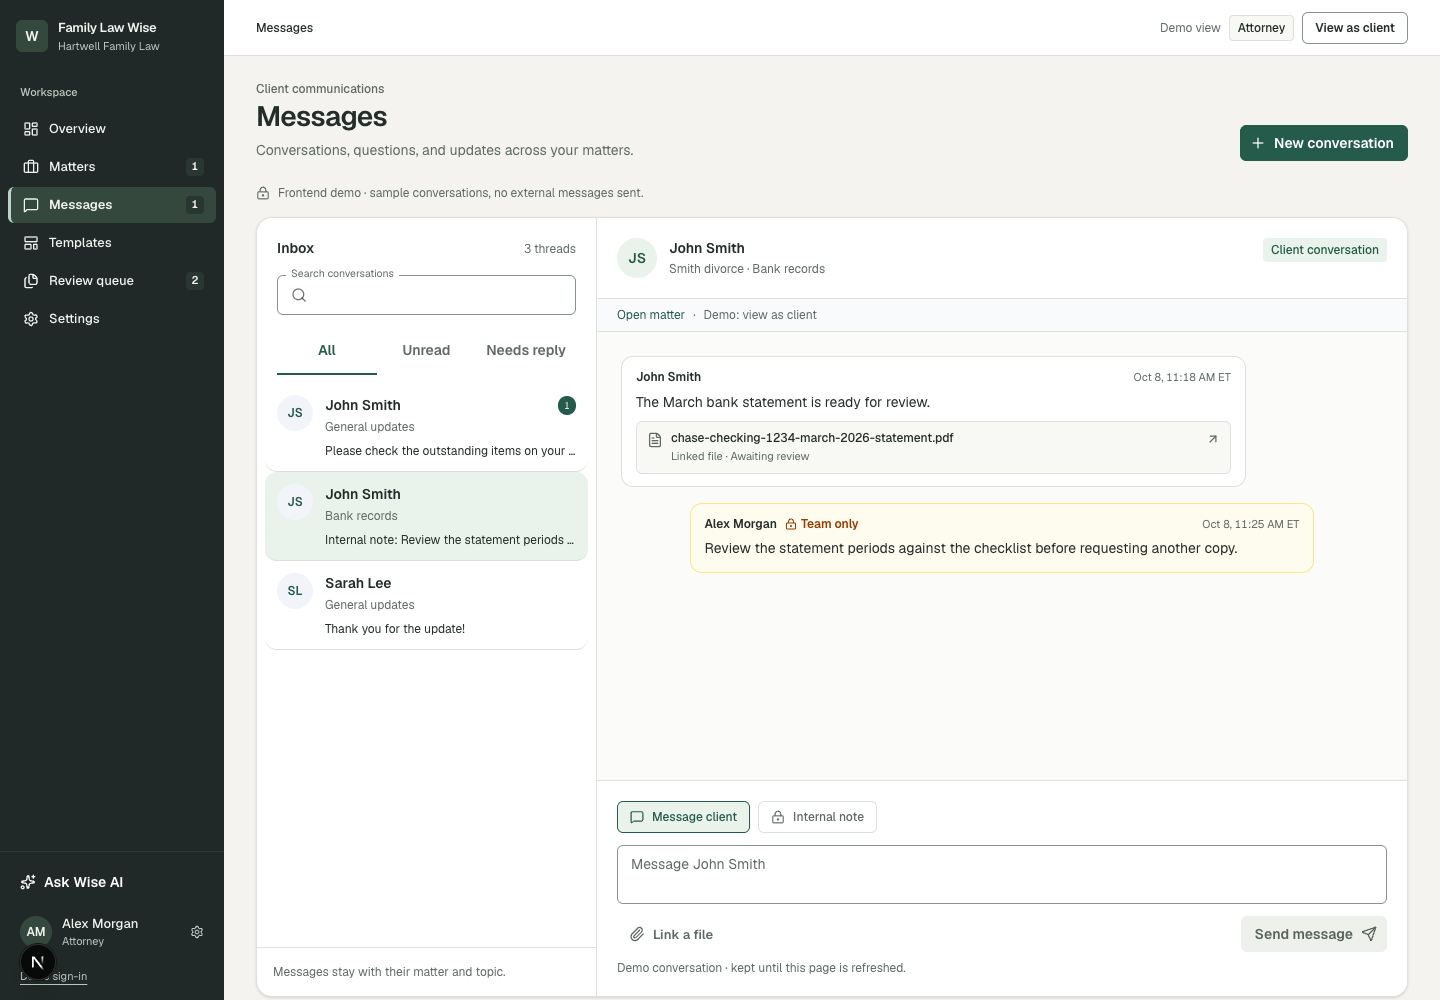
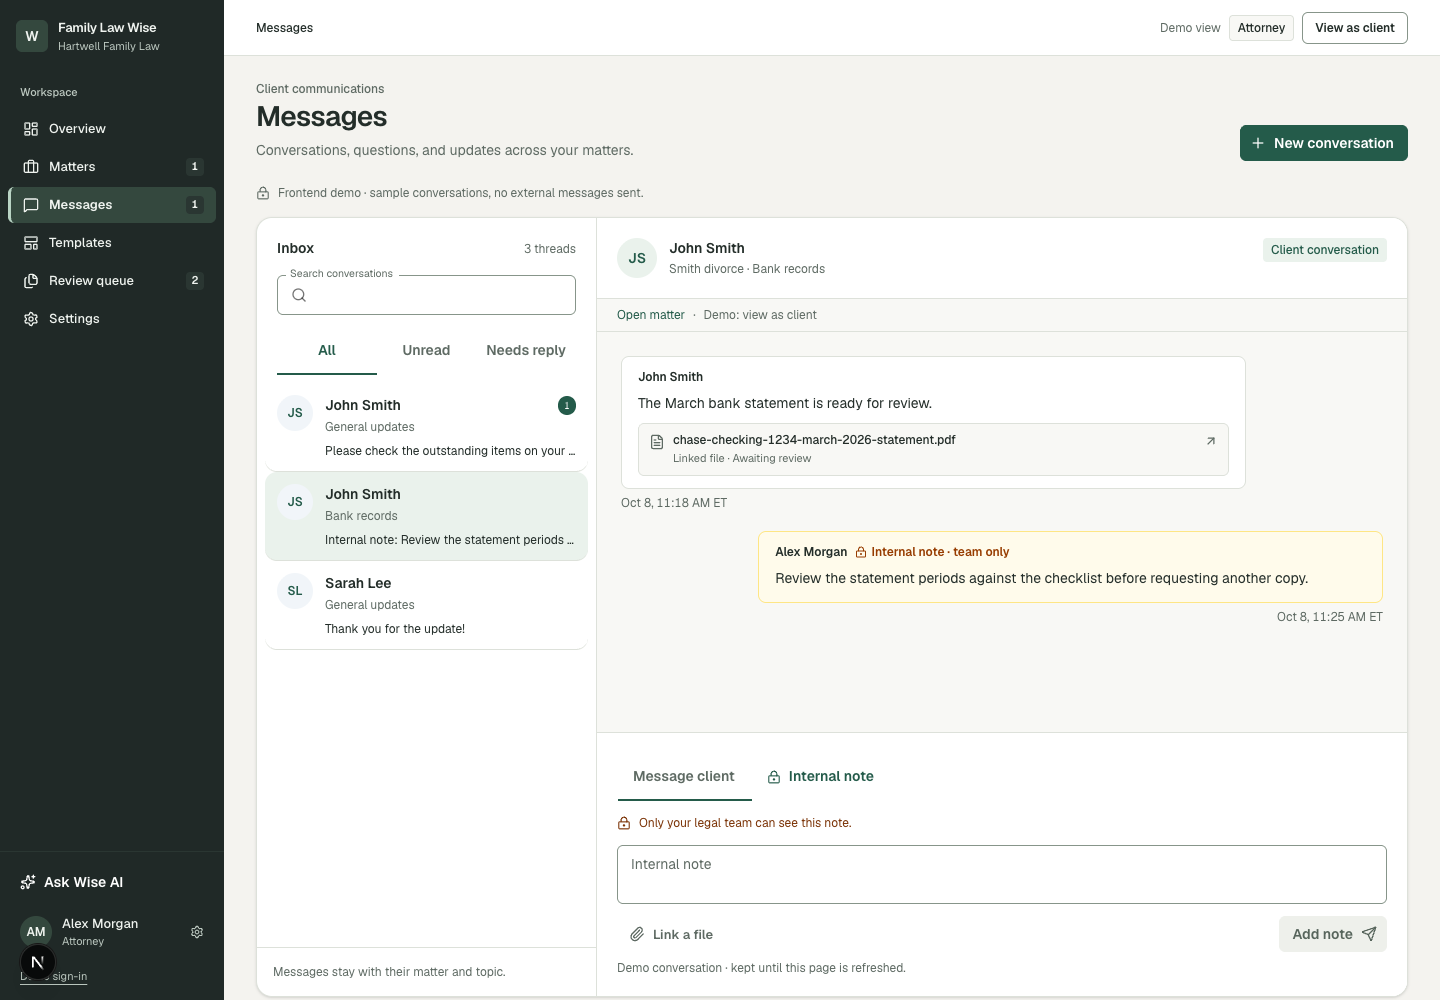
DESK-20: retain directional messages and stabilize composer guidance
Restore underlined audience tabs and directional timestamps, compact message blocks, center visibility guidance without layout jumps, and improve focused form labels. Update real UI screenshots. TypeScript, lint and 47 tests passed; desktop draft/privacy/layout checks passed. Broader responsive acceptance remains pending.

diff --git a/src/components/messaging/conversation.tsx b/src/components/messaging/conversation.tsx
@@ -2,7 +2,7 @@
 
 import Link from "next/link";
 import { useEffect, useRef, useState } from "react";
-import { Button, Chip, MenuItem, TextField } from "@mui/material";
+import { Button, Chip, MenuItem, Tab, Tabs, TextField } from "@mui/material";
 import {
   ArrowLeft,
   LockKeyhole,
@@ -110,7 +110,7 @@ export function Conversation({
           className="hidden bg-brand-soft text-brand sm:flex"
         />
       </header>
-      <div className="border-b border-line bg-slate-50 px-5 py-2 text-xs text-muted">
+      <div className="border-b border-line bg-surface-subtle px-5 py-2 text-xs text-muted">
         <Link
           className="text-brand hover:underline"
           href={
@@ -135,7 +135,7 @@ export function Conversation({
       </div>
       <div
         ref={historyRef}
-        className="min-h-0 flex-1 space-y-4 overflow-y-auto bg-surface-subtle/50 p-4 sm:p-6"
+        className="min-h-0 flex-1 space-y-5 overflow-y-auto bg-surface-subtle p-4 sm:p-6"
         role="log"
         aria-label="Message history"
         aria-live="polite"
@@ -156,42 +156,30 @@ export function Conversation({
             <article
               key={message.id}
               className={cn(
-                "max-w-[94%] sm:max-w-[82%]",
-                internal ? "mx-auto w-full max-w-none" : own ? "ml-auto" : "mr-auto",
+                "max-w-[92%] sm:max-w-[82%]",
+                own ? "ml-auto" : "mr-auto",
               )}
             >
               <div
                 className={cn(
-                  "rounded-xl border px-3.5 py-3",
+                  "rounded-lg border px-4 py-3",
                   internal
-                    ? "border-amber-200 bg-amber-50/70"
+                    ? "border-amber-200 bg-amber-50"
                     : own
-                      ? "border-brand/10 bg-brand-soft/70"
+                      ? "border-brand/10 bg-brand-soft"
                       : "border-line bg-white",
                 )}
               >
-                <div className="mb-1.5 flex flex-wrap items-center justify-between gap-x-3 gap-y-1">
-                  <p className="flex flex-wrap items-center gap-2 text-xs font-semibold text-foreground">
-                    {message.authorName}
+                <p className="mb-1.5 flex flex-wrap items-center gap-2 text-xs font-semibold">
+                  {message.authorName}
                   {internal && (
                     <span className="inline-flex items-center gap-1 text-amber-800">
                       <LockKeyhole className="size-3" />
-                      Team only
+                      Internal note · team only
                     </span>
                   )}
-                  </p>
-                  <time className="shrink-0 text-[11px] text-muted" dateTime={message.createdAt}>
-                    {new Intl.DateTimeFormat("en-US", {
-                      month: "short",
-                      day: "numeric",
-                      hour: "numeric",
-                      minute: "2-digit",
-                      timeZone: "America/New_York",
-                    }).format(new Date(message.createdAt))} ET
-                    {own && !internal && (message.readBy.includes(role === "ATTORNEY" ? "CLIENT" : "ATTORNEY") ? " · Read" : " · Sent")}
-                  </time>
-                </div>
-                <p className="whitespace-pre-wrap break-words text-sm leading-[1.55] [overflow-wrap:anywhere]">
+                </p>
+                <p className="whitespace-pre-wrap break-words text-sm leading-6 [overflow-wrap:anywhere]">
                   {message.body}
                 </p>
                 {message.documentId && (
@@ -202,36 +190,84 @@ export function Conversation({
                   />
                 )}
               </div>
+              <p
+                className={cn(
+                  "mt-1.5 text-xs text-muted",
+                  own ? "text-right" : "text-left",
+                )}
+              >
+                <time dateTime={message.createdAt}>
+                  {new Intl.DateTimeFormat("en-US", {
+                    month: "short",
+                    day: "numeric",
+                    hour: "numeric",
+                    minute: "2-digit",
+                    timeZone: "America/New_York",
+                  }).format(new Date(message.createdAt))}{" "}
+                  ET
+                </time>
+                {own &&
+                  !internal &&
+                  (message.readBy.includes(
+                    role === "ATTORNEY" ? "CLIENT" : "ATTORNEY",
+                  )
+                    ? " · Read"
+                    : " · Sent")}
+              </p>
             </article>
           );
         })}
       </div>
       <form
-        className="shrink-0 border-t border-line bg-white p-4 sm:p-5"
+        className="shrink-0 border-t border-line bg-surface p-4 sm:p-5"
         onSubmit={(event) => {
           event.preventDefault();
           send();
         }}
       >
         {role === "ATTORNEY" && (
-          <div className="mb-3 flex flex-wrap items-center gap-2" role="group" aria-label="Message visibility">
-            <button type="button" onClick={() => { setAudience("SHARED"); setFeedback(""); }} aria-pressed={audience === "SHARED"} className={cn("inline-flex h-8 items-center gap-2 rounded-md border px-3 text-xs font-medium transition-colors", audience === "SHARED" ? "border-brand bg-brand-soft text-brand" : "border-line bg-white text-muted hover:bg-surface-subtle")}>
-              <MessageSquare className="size-3.5" /> Message client
-            </button>
-            <button type="button" onClick={() => { setAudience("INTERNAL"); setFeedback(""); }} aria-pressed={audience === "INTERNAL"} className={cn("inline-flex h-8 items-center gap-2 rounded-md border px-3 text-xs font-medium transition-colors", audience === "INTERNAL" ? "border-amber-300 bg-amber-50 text-amber-900" : "border-line bg-white text-muted hover:bg-surface-subtle")}>
-              <LockKeyhole className="size-3.5" /> Internal note
-            </button>
-          </div>
+          <Tabs
+            value={audience}
+            onChange={(_, value: MessageAudience) => {
+              setAudience(value);
+              setFeedback("");
+            }}
+            aria-label="Message visibility"
+            className="mb-3 min-h-0"
+          >
+            <Tab value="SHARED" label="Message client" />
+            <Tab
+              value="INTERNAL"
+              label="Internal note"
+              icon={<LockKeyhole className="size-3.5" />}
+              iconPosition="start"
+            />
+          </Tabs>
         )}
-        {audience === "INTERNAL" && (
-          <p className="mb-3 flex items-center gap-2 rounded-md bg-amber-50 px-3 py-2 text-xs text-amber-900">
-            <LockKeyhole className="size-3.5 shrink-0" /> Only the legal team can see this note. It will not be sent to the client.
+        {role === "ATTORNEY" && (
+          <p
+            className={cn(
+              "mb-3 flex min-h-5 items-center gap-2 text-xs leading-5",
+              audience === "INTERNAL" ? "text-amber-900" : "text-muted",
+            )}
+          >
+            {audience === "INTERNAL" ? (
+              <LockKeyhole aria-hidden="true" className="size-3.5 shrink-0" />
+            ) : (
+              <MessageSquare aria-hidden="true" className="size-3.5 shrink-0" />
+            )}
+            <span>
+              {audience === "INTERNAL"
+                ? "Only your legal team can see this note."
+                : `Visible to ${client} and your legal team.`}
+            </span>
           </p>
         )}
         <TextField
           label={
             audience === "INTERNAL" ? "Internal note" : `Message ${recipient}`
           }
+          fullWidth
           multiline
           minRows={2}
           maxRows={5}

diff --git a/src/components/app-theme.tsx b/src/components/app-theme.tsx
@@ -72,6 +72,24 @@ const theme = createTheme({
     },
     MuiTextField: { defaultProps: { size: "small", fullWidth: true } },
     MuiFormControl: { defaultProps: { size: "small" } },
+    MuiInputLabel: {
+      styleOverrides: {
+        root: {
+          color: "var(--text-secondary)",
+          "&.Mui-focused": { color: "var(--text-primary)", fontWeight: 600 },
+          "&.Mui-error": { color: "var(--error-text)" },
+          "&.Mui-disabled": { color: "var(--neutral-text)" },
+        },
+        outlined: {
+          "&.MuiInputLabel-shrink": {
+            backgroundColor: "var(--surface)",
+            paddingInline: 4,
+            marginLeft: -4,
+            zIndex: 1,
+          },
+        },
+      },
+    },
     MuiOutlinedInput: {
       styleOverrides: {
         root: {
